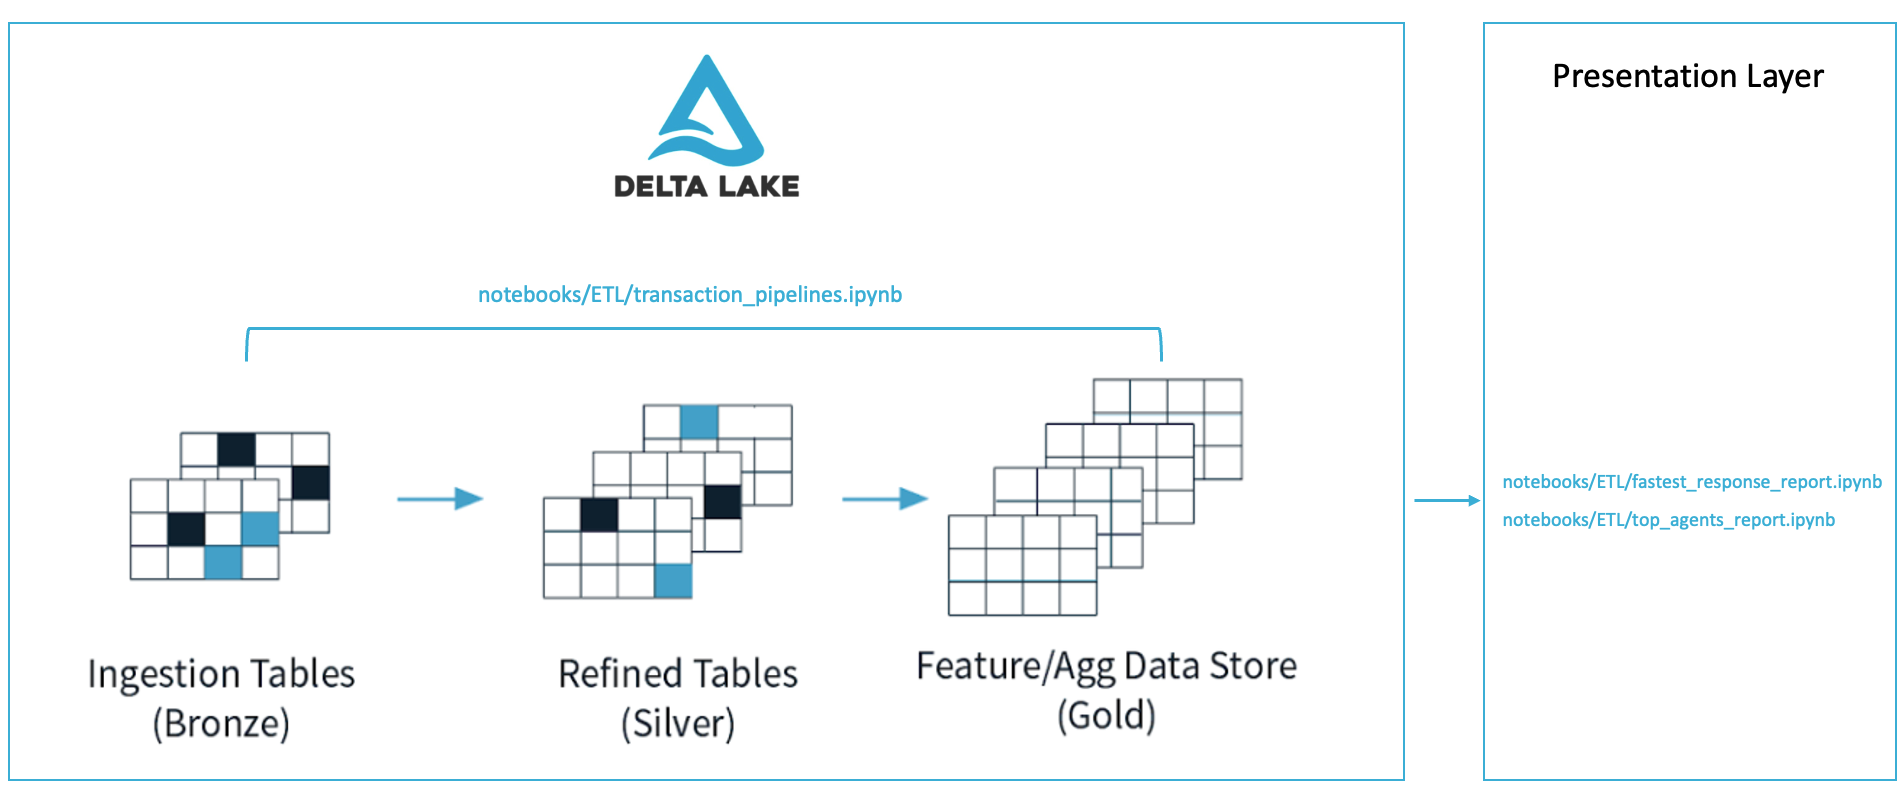
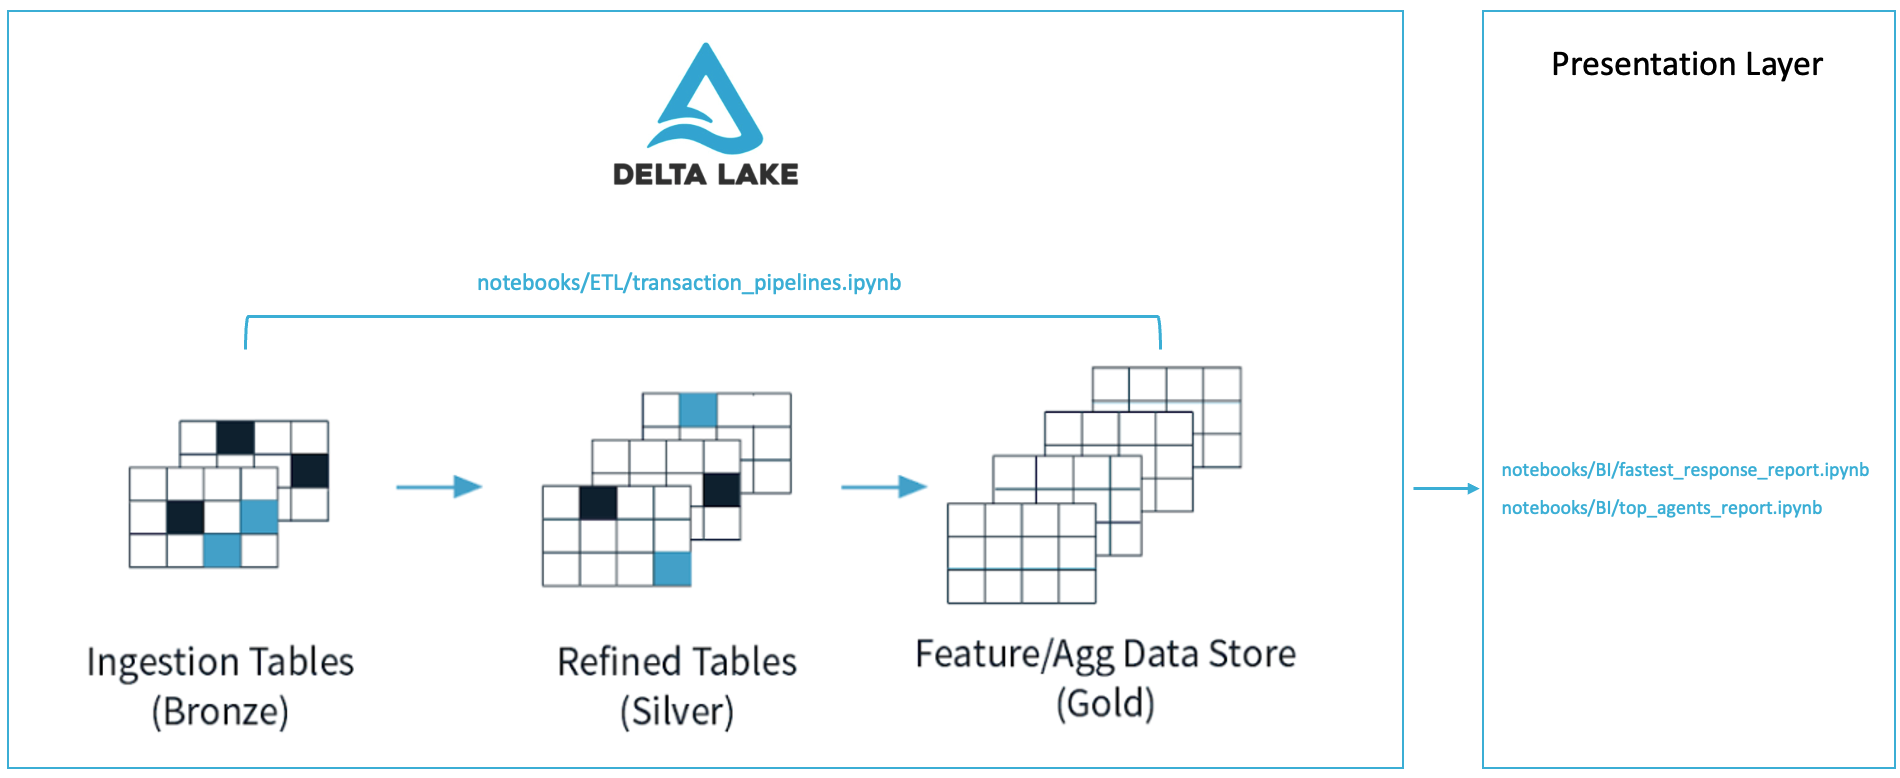
Updated README.md

diff --git a/README.md b/README.md
@@ -33,7 +33,7 @@ notebooks/ETL/transaction_pipelines.ipynb
 - The notebooks that are calculating the fastest response and Top Agents based on postcode and amount as part of the 
 presentation/reporting layer are:
 ```
-notebooks/ETL/fastest_response_report.ipynb and notebooks/ETL/top_agents_report.ipynb
+notebooks/BI/fastest_response_report.ipynb and notebooks/BI/top_agents_report.ipynb
 ```
 ***
 ### Project/Folder structure:
